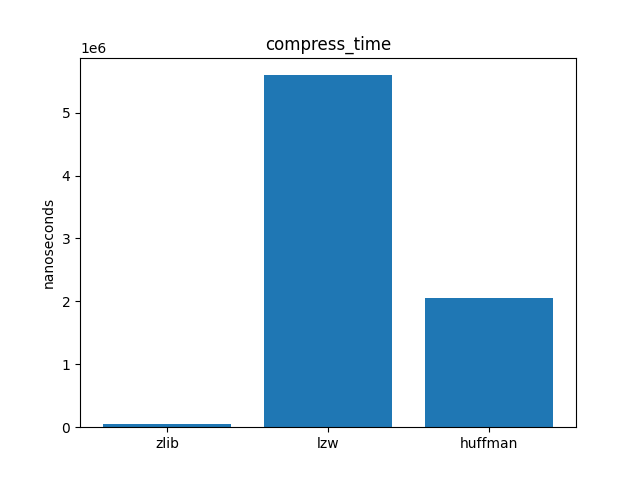
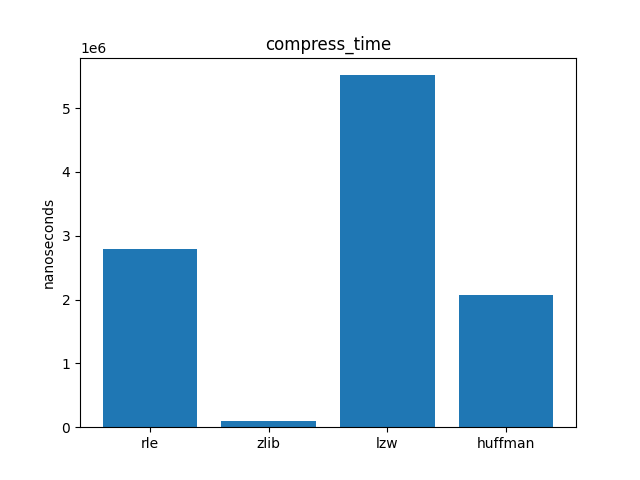
adds rle

diff --git a/algorithms/rle.py b/algorithms/rle.py
@@ -1,59 +1,48 @@
-"""
-https://www.section.io/engineering-education/run-length-encoding-algorithm-in-python/#implementation
-"""
+import numpy as np
 
+# https://q-viper.github.io/2021/05/24/coding-run-length-encoding-in-python/
 
-def compress(message: str) -> str:
-    # TODO: Change algorithm so that input is of type bytes and it returns bytes
-    # The problem lies in the fact that this algorithm relies on the input
-    # (the message) to be a string. This has many problems:
-    # 1. We don't want to store the whole image in memory. It is inefficient. It
-    # is better to go byte by byte using a generator. However, this is not a big
-    # issue as long as our data fits in memory.
-    # 2. IMPORTANT. We have to handle how to "store" the count and the characters
-    # when the characters are bytes instead of 1-length `str` objects.
-    #
-    # If we solve (2), and apply the same solution for de-compress, we have a
-    # working RLE algorithm for bytes. The ugly (and inefficient) but working
-    # solution is just taking the input as bytes and interpret it as strings and
-    # then just compress that instead. Since the algorithm is lossless, the
-    # result will not be lost. However, since Python will "stringify" the bytes
-    # with their own syntax, we would be compressing an image according to the
-    # redundancy added by the Python byte parser instead of the redundancy of
-    # the image itself, which is the algorithm would be slow AND not very
-    # correct.
-    encoded_string = ""
-    i = 0
-    while i <= len(message) - 1:
-        count = 1
-        ch = message[i]
-        j = i
-        while j < len(message) - 1:
-            # if the character at the current index is the same as the character at the next index. If the characters are the same, the count is incremented to 1
-            if message[j] == message[j + 1]:
-                count = count + 1
-                j = j + 1
+def compress(img, bits=8,  binary=True, view=True):
+    """
+    img: Grayscale img.
+    bits: what will be the maximum run length? 2^bits       
+    """
+    # if binary:
+        # ret,img = cv2.threshold(img,127,255,cv2.THRESH_BINARY+cv2.THRESH_OTSU)
+
+    encoded = []
+    count = 0
+    prev = None
+    th=127
+    for pixel in img:
+        if binary:
+            if pixel<th:
+                pixel=0
             else:
-                break
-        # the count and the character is concatenated to the encoded string
-        encoded_string = encoded_string + str(count) + ch
-        i = j + 1
-    return encoded_string
+                pixel=1
+        if prev==None:
+            prev = pixel
+            count+=1
+        else:
+            if prev!=pixel:
+                encoded.append((count, prev))
+                prev=pixel
+                count=1
+            else:
+                if count<(2**bits)-1:
+                    count+=1
+                else:
+                    encoded.append((count, prev))
+                    prev=pixel
+                    count=1
+    encoded.append((count, prev))
+    
+    return np.array(encoded)
 
-
-def decompress(our_message: str) -> str:
-    # TODO: Change algorithm so that input is of type bytes and it returns bytes
-    decoded_message = ""
-    i = 0
-    j = 0
-    # splitting the encoded message into respective counts
-    while i <= len(our_message) - 1:
-        run_count = int(our_message[i])
-        run_word = our_message[i + 1]
-        # displaying the character multiple times specified by the count
-        for j in range(run_count):
-            # concatenated with the decoded message
-            decoded_message = decoded_message + run_word
-            j = j + 1
-        i = i + 2
-    return decoded_message
+def decompress(encoded):
+    decoded=[]
+    for rl in encoded:
+        r,p = rl[0], rl[1]
+        decoded.extend([p]*r)
+    dimg = np.array(decoded)
+    return dimg

diff --git a/main.py b/main.py
@@ -4,7 +4,7 @@ from helper.benchmark import benchmark
 from helper.constants import cols
 
 algos = [
-    # rle,
+    rle,
     zlib,
     lzw,
     huffman
